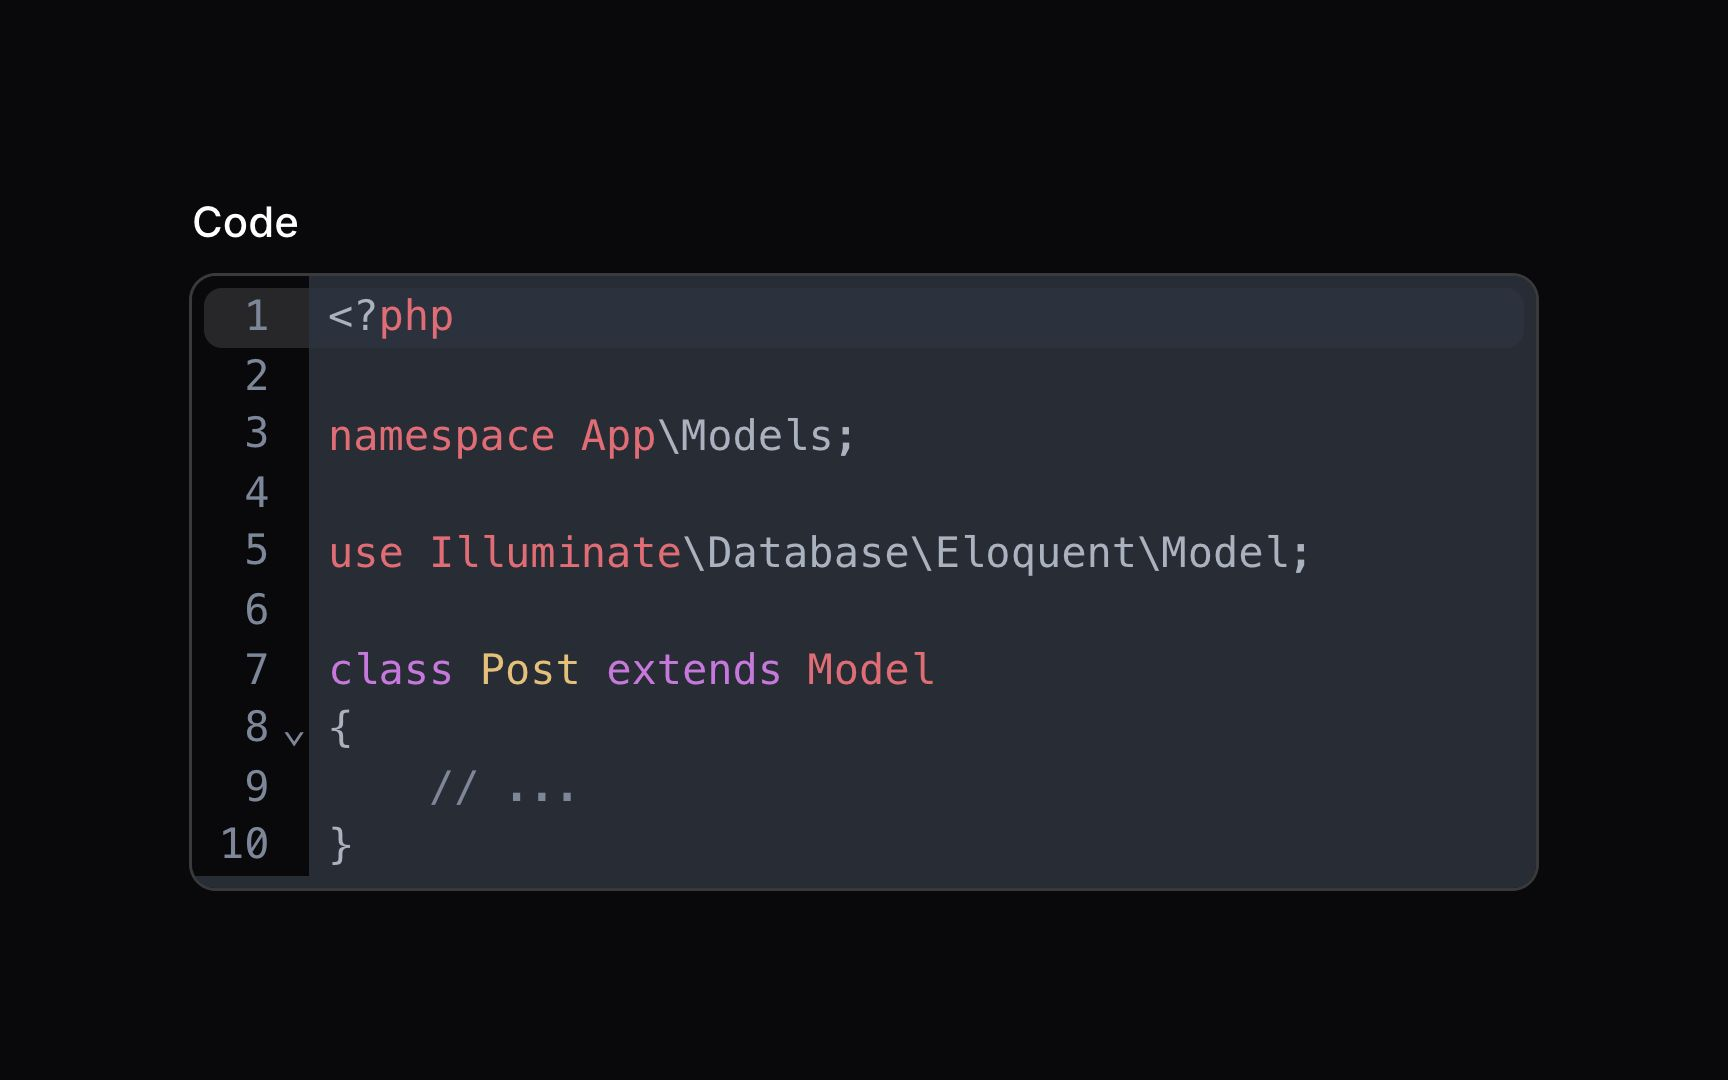
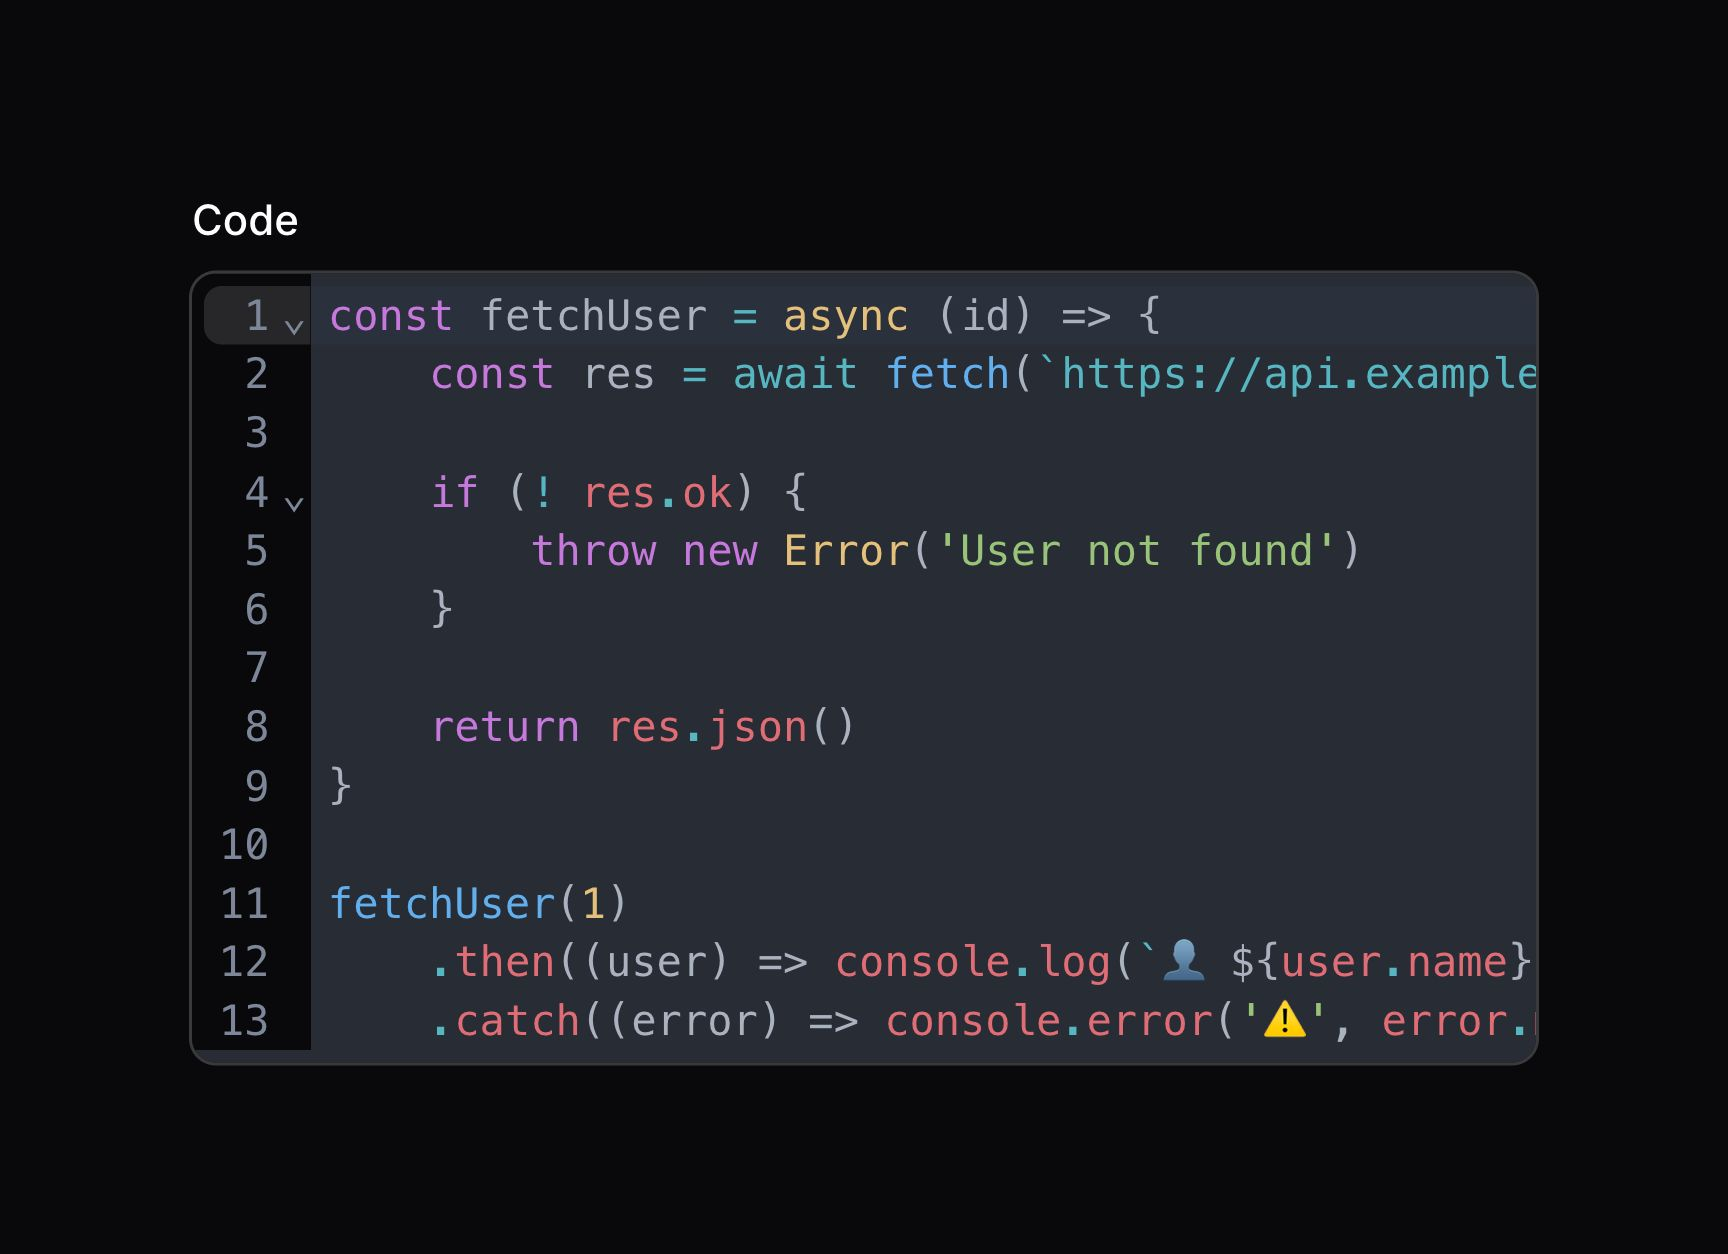
update screenshots

diff --git a/docs-assets/app/app/Livewire/Forms/FieldsDemo.php b/docs-assets/app/app/Livewire/Forms/FieldsDemo.php
@@ -1963,18 +1963,13 @@ class FieldsDemo extends Component implements HasActions, HasSchemas
                     ])
                     ->schema([
                         CodeEditor::make('code')
-                            ->default(<<<PHP
-                                <?php
-
-                                namespace App\Models;
-
-                                use Illuminate\Database\Eloquent\Model;
-
-                                class Post extends Model
-                                {
-                                    // ...
-                                }
-                                PHP),
+                            ->default(<<<'YAML'
+                                name: Filament
+                                framework: Laravel
+                                packageManager: Composer
+                                releaseYear: 2021
+                                website: https://filamentphp.com
+                                YAML),
                     ]),
                 Group::make()
                     ->id('codeEditorLanguage')
@@ -1982,15 +1977,23 @@ class FieldsDemo extends Component implements HasActions, HasSchemas
                         'class' => 'p-16 max-w-xl',
                     ])
                     ->schema([
-                        CodeEditor::make('code')
+                        CodeEditor::make('codeWithLanguage')
+                            ->label('Code')
                             ->language(Language::JavaScript)
                             ->default(<<<'JS'
-                                function calculateArea(width, height) {
-                                    return width * height;
+                                const fetchUser = async (id) => {
+                                    const res = await fetch(`https://api.example.com/users/${id}`)
+
+                                    if (! res.ok) {
+                                        throw new Error('User not found')
+                                    }
+
+                                    return res.json()
                                 }
 
-                                const area = calculateArea(10, 5);
-                                console.log('Area:', area);
+                                fetchUser(1)
+                                    .then((user) => console.log(`👤 ${user.name}`))
+                                    .catch((error) => console.error('⚠', error.message))
                                 JS),
                     ]),
             ]);
